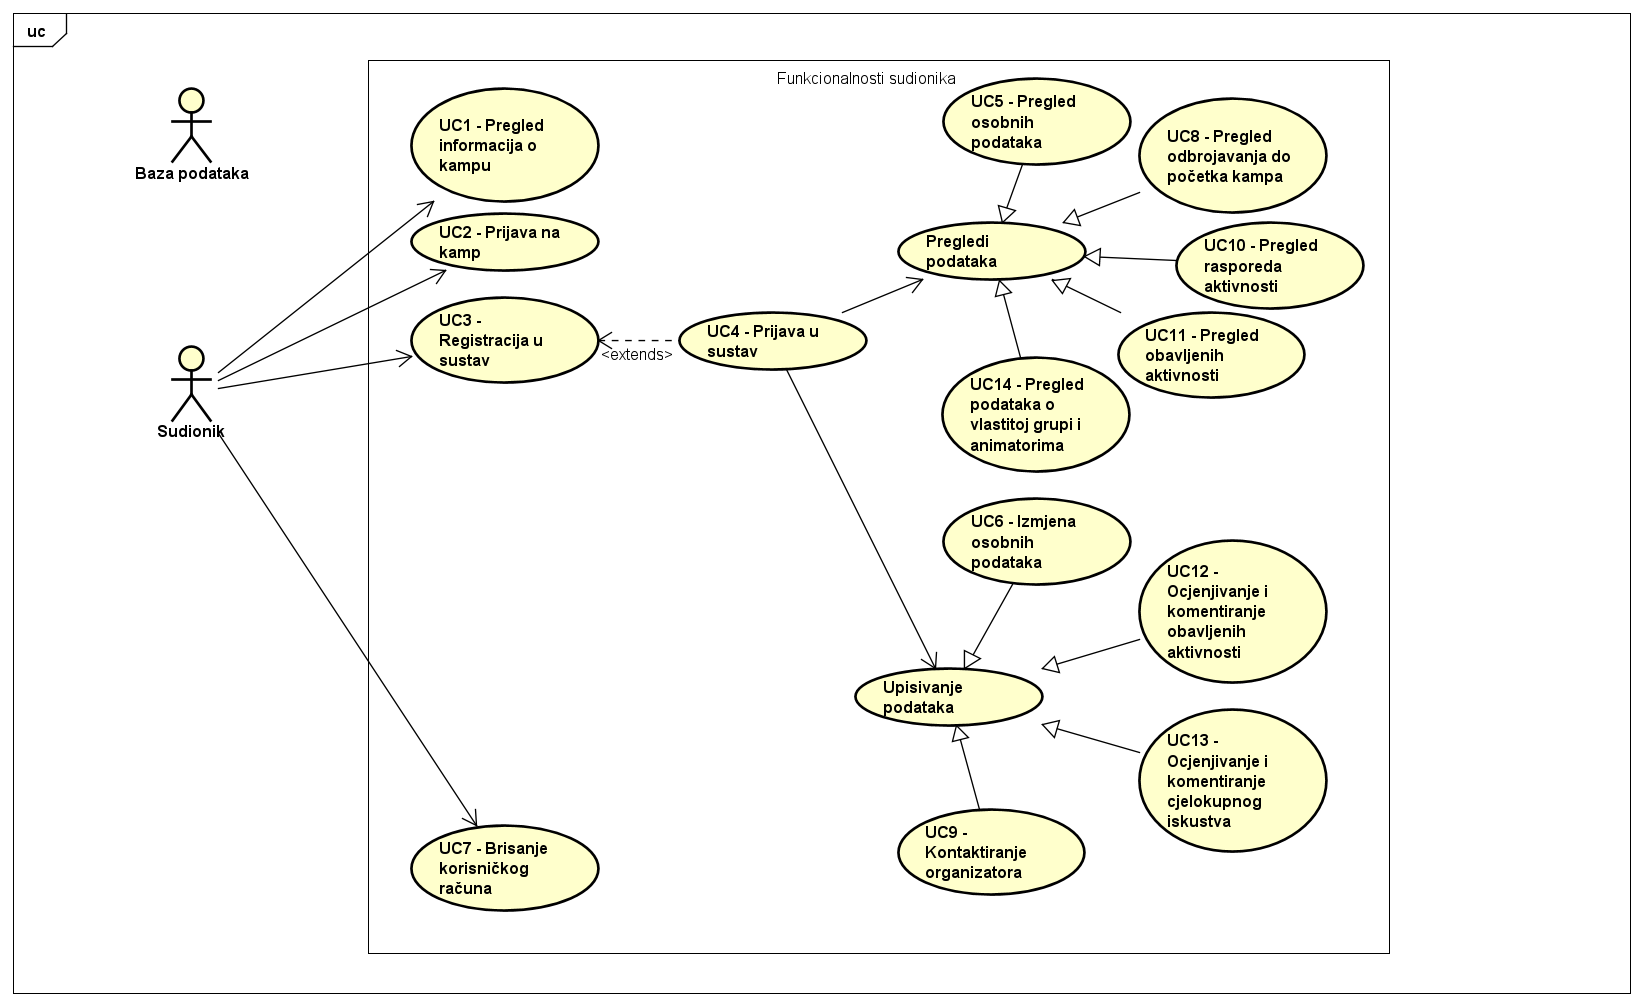
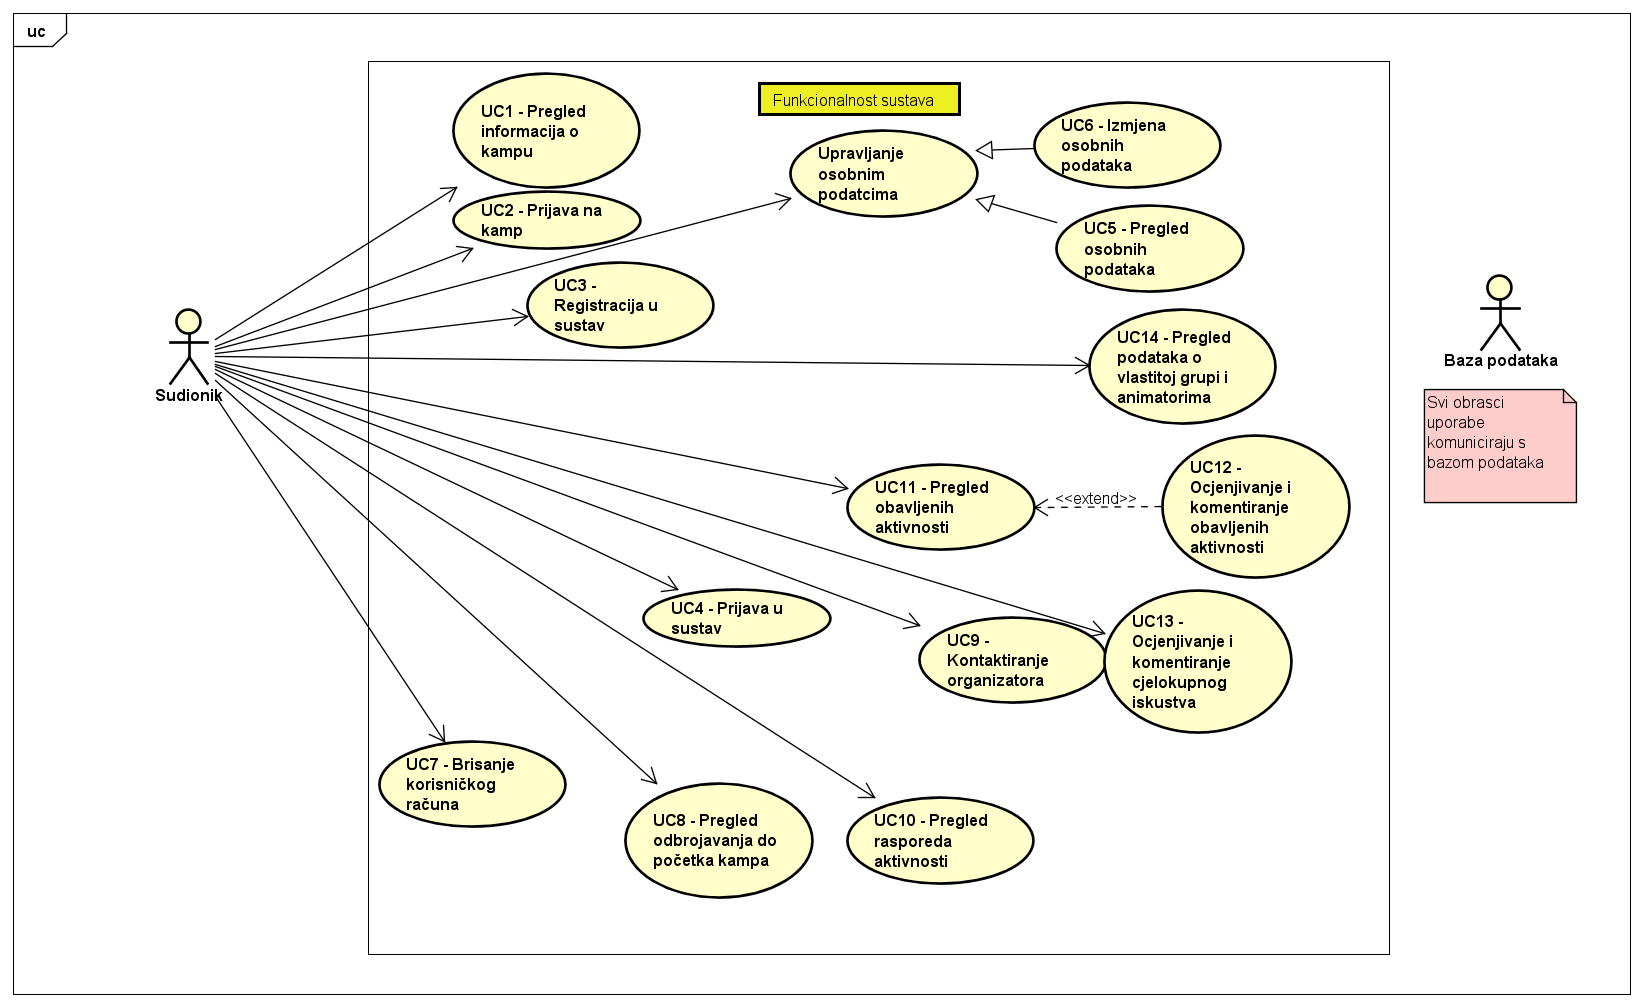
UC i sekvencijski dijagrami

diff --git a/Dokumentacija/tex/Specifikacija_programske_potpore.tex b/Dokumentacija/tex/Specifikacija_programske_potpore.tex
@@ -799,11 +799,11 @@
 						\end{packed_item}
 					\end{packed_item}
 					
-					\noindent \underbar{\textbf{UC24 - Unos grupe}}
+					\noindent \underbar{\textbf{UC24 - Unos grupa}}
 					\begin{packed_item}
 						
 						\item \textbf{Glavni sudionik: }Organizator
-						\item  \textbf{Cilj:} Unos nove grupe u sustav
+						\item  \textbf{Cilj:} Unos grupa u sustav
 						\item  \textbf{Sudionici:} Baza podataka
 						\item  \textbf{Preduvjet:} Organizator je prijavljen u sustav
 						\item  \textbf{Opis osnovnog tijeka:}
@@ -814,8 +814,8 @@
 							\item Organizator odabire opciju "Upravljanje"
 							\item Organizator odabire kamp za koji želi unijeti grupu
 							\item Organizator odabire opciju "Grupe"
-							\item Organizator odabire opciju "Unos grupe"
-							\item Organizator upisuje podatke za definiciju grupe te može pridružiti proizvoljan broj sudionika 
+							\item Organizator odabire opciju "Unos grupa"
+							\item Organizator upisuje broj grupa koje želi stvoriti
 							\item Organizator odabire opciju "Potvrdi"
 							\item Baza podataka se ažurira
 						\end{packed_enum}
@@ -824,28 +824,13 @@
 						
 						\item[] \begin{packed_item}
 							
-							\item[3.a] Organizator odustaje od unosa grupe
+							\item[4.a] Organizator odustaje od unosa grupa
 							\item[] \begin{packed_enum}
 								
-								\item Sustav obavještava organizatora da grupa neće biti unesena u sustav
+								\item Sustav obavještava organizatora da grupe neće biti unesene u sustav
 								
 							\end{packed_enum}
 							
-							\item[6.a] Grupa koju je organizator unio već postoji u sustavu
-							\item[] \begin{packed_enum}
-								
-								\item Sustav obavještava organizatora da grupa već postoji u sustavu
-								\item Korisnik mijenja podatke ili odustaje od unosa grupe u sustav 
-								
-								
-							\end{packed_enum}
-							\item[6.b] Organizator nije unio sve potrebne podatke za definiciju grupe
-							\item[] \begin{packed_enum}
-								
-								\item Sustav obavještava organizatora o podatcima koje mora unijeti
-								\item Organizator unosi podatke ili odustaje od unosa grupe u sustav
-								
-							\end{packed_enum}
 							
 						\end{packed_item}
 					\end{packed_item}
@@ -1332,29 +1317,58 @@
 							\end{packed_enum}
 						\end{packed_item}
 					\end{packed_item}
-				
+			\eject	
 							
 			\subsubsection{Dijagrami obrazaca uporabe}
+				
 				\begin{figure}[H]
-					\centerline{\includegraphics[width=\columnwidth, height=0.9\textheight]{slike/UC_organizator.png}}
-					\caption{Dijagram obrasca uporabe, funkcionalnost organizatora}
-					\label{fig}
+				\centerline{\includegraphics[width=\textwidth]{slike/UC_sudionik.png}}
+				\caption{Dijagram obrasca uporabe, funkcionalnosti sudionika}
+				\label{fig:ucSudionik}
 				\end{figure}
+			
+				\begin{figure}[H]
+					\centerline{\includegraphics[width=\textwidth]{slike/UC_animator.png}}
+					\caption{Dijagram obrasca uporabe, funkcionalnosti animatora}
+					\label{fig:ucAnimator}
+				\end{figure}
+		
+				\begin{figure}[H]
+					\centerline{\includegraphics[width=\textwidth, height=0.9\textheight]{slike/UC_organizator.png}}
+					\caption{Dijagram obrasca uporabe, funkcionalnosti organizatora}
+					\label{fig:ucOrganizator}
+				\end{figure}
+			
+			
 			\eject		
 				
 			\subsection{Sekvencijski dijagrami}
 				
-				\textbf{\textit{dio 1. revizije}}\\
+				\textbf{Obrazac uporabe UC36 - Prihvaćanje ili odbijanje prijave}
 				
-				\textit{Nacrtati sekvencijske dijagrame koji modeliraju najvažnije dijelove sustava (max. 4 dijagrama). Ukoliko postoji nedoumica oko odabira, razjasniti s asistentom. Uz svaki dijagram napisati detaljni opis dijagrama.}
+				
+				\noindent Organizator nakon odabira opcije "Upravljanje" odabire opciju "Prijave".Poslužitelj dohvaća popis prijava iz baze podataka i ukoliko prijave postoje, prikazuje ih organizatoru. Organizator filtrira prijave kako bi vidio neobrađene, aktivne prijave. Poslužitelj dohvaća filtrirane prijave iz baze podataka i ukoliko takve prijave postoje, prikazuje ih organizatoru.Organizator odabire prijavu i obrađuje ju, prihvaća ju ili odbija. Nakon što organizator potvrdi svoju odluku, poslužitelj bazi podataka šalje ažurirane podatke. Kotisniku čija je prijava obrađena šalje se e-mail obavijest sa statusom njegove prijave i daljnjim uputama.
+				\begin{figure}[H]
+					\centerline{\includegraphics[width=\linewidth]{slike/Sekvencijski_dijagram_UC36.png}}
+					\caption{Sekvencijski dijagram za UC36}
+					\label{fig:sekvencijskiUC36}
+				\end{figure}
 				\eject
+				
+			
+			
+				
+				
 	
 		\section{Ostali zahtjevi}
-		
-			\textbf{\textit{dio 1. revizije}}\\
-		 
-			 \textit{Nefunkcionalni zahtjevi i zahtjevi domene primjene dopunjuju funkcionalne zahtjeve. Oni opisuju \textbf{kako se sustav treba ponašati} i koja \textbf{ograničenja} treba poštivati (performanse, korisničko iskustvo, pouzdanost, standardi kvalitete, sigurnost...). Primjeri takvih zahtjeva u Vašem projektu mogu biti: podržani jezici korisničkog sučelja, vrijeme odziva, najveći mogući podržani broj korisnika, podržane web/mobilne platforme, razina zaštite (protokoli komunikacije, kriptiranje...)... Svaki takav zahtjev potrebno je navesti u jednoj ili dvije rečenice.}
 			 
-			 
-			 
-	
+			 \begin{packed_item}
+			 \item Sustav treba biti implementiran kao web aplikacija koristeći objektno-orijentiranu paradigmu
+			 \item Sustav treba omogućiti rad više korisnika u stvarnom vremenu
+			 \item Korisničko sučelje i sustav moraju podržavati hrvatsku abecedu (dijakritičke znakove) pri unosu i prikazu tekstualnog sadržaja
+			 \item  Neispravno korištenje korisničkog sučelja ne smije narušiti funkcionalnost i rad sustava
+			 \item Izvršavanje dijela programa u kojem se pristupa bazi podataka ne smije trajati duže od nekoliko sekundi
+			 \item Sustav treba biti jednostavan za korištenje, korisnici se moraju znati koristiti sučeljem bez opširnih uputa
+			 \item Nadogradnja sustava ne smije narušavati postojeće funkcionalnosti sustava
+			\end{packed_item}
+		\eject

diff --git a/Dokumentacija/tex/Opis_projektnog_zadatka.tex b/Dokumentacija/tex/Opis_projektnog_zadatka.tex
@@ -18,7 +18,7 @@
 		
 		Sudionici i animatori nakon prijave u sustav (prije početka kampa) vide samo odbrojavanje do početka kampa i imaju mogućnost kontaktiranja organizatora. Nakon početka kampa (za oba tipa korisnika) vodi na stranicu koja pokazuje njihov raspored. Sudionici vide popis članova svoje grupe (u kojoj će sudjelovati na svim aktivnostima) i njihove kontakt podatke, kao i animatore s kojima će raditi i njihove kontakt podatke. Animatori vide popis svih grupa, njihovih članova i drugih animatora, kao i njihove kontakt podatke. Dodatno i sudionici i animatori vide popis aktivnosti na kojima su sudjelovali te imaju opciju ocjenjivanja aktivnosti te ostavljanja kratkog opisa njihovog dojma s aktivnošću. Nakon što je kamp završio, sudionici i animatori mogu ocijeniti i ostaviti vlastiti dojam za cjelokupno iskustvo. 
 		
-		Organizatori mogu uređivati osnovne informacije s početne stranice. Oni definiraju aktivnosti, te zadaju vrijeme prijava na kamp za sudionike i animatore. Također, vide popis prijava koje mogu prihvatiti ili odbiti. Organizatori određuju broj grupa u koje će, nakon završetka prijava na kamp, sustav slučajnim odabirom razvrstati sudionike, te ih naknadno mogu ručno razmještati. Organizatori mogu puniti raspored s aktivnostima, aktivnostima pridružiti animatore, te imaju popis svih povratnih ocjena po aktivnostima, koje mogu pretraživati po različitim atributima. Osim povratnih ocjena, organizatori mogu vidjeti popis svih aktivnosti, grupa, te registriranih korisnika, koje mogu uređivati. } 
+		Organizatori mogu uređivati osnovne informacije s početne stranice. Oni definiraju aktivnosti, te zadaju vrijeme prijava na kamp za sudionike i animatore. Također, vide popis prijava koje mogu prihvatiti ili odbiti. Organizatori određuju broj grupa u koje će, nakon završetka prijava na kamp, sustav slučajnim odabirom razvrstati sudionike, te ih naknadno mogu ručno razmještati. Organizatori mogu puniti raspored s aktivnostima, aktivnostima pridružiti animatore, te imaju popis svih povratnih ocjena po aktivnostima, koje mogu pretraživati po različitim atributima. Osim povratnih ocjena, organizatori mogu vidjeti popis svih aktivnosti, grupa, te registriranih korisnika, koje mogu uređivati.  
 		
 		
 		\eject

diff --git a/Dokumentacija/tex/Dnevnik_promjena_dokumentacije.tex b/Dokumentacija/tex/Dnevnik_promjena_dokumentacije.tex
@@ -25,6 +25,8 @@
 			0.3.6 & Popunjeni obrasci uporabe UC1-UC6 & Dolić & 22.10.2020. 	\\[3pt] \hline
 			0.4 & Napravljen i dodan UC dijagram za organizatora & Deković & 22.10.2020. 	\\[3pt] \hline
 			0.4.1 & Pregledani i ispravljeni svi obrasci uporabe & Strunjak & 23.10.2020. 	\\[3pt] \hline
+			0.4.2 & Ispravljen obrazac uporabe UC24, dodan sekvencijski dijagram za UC36 & Strunjak & 27.10.2020. 	\\[3pt] \hline
+			0.4.3 & Dodani dijagrami obrazaca uporabe za sudionika i organizatora & Došen, Vicković, Dujmović, Strunjak & 27.10.2020. 	\\[3pt] \hline
 		\end{longtabu}
 	
 	
